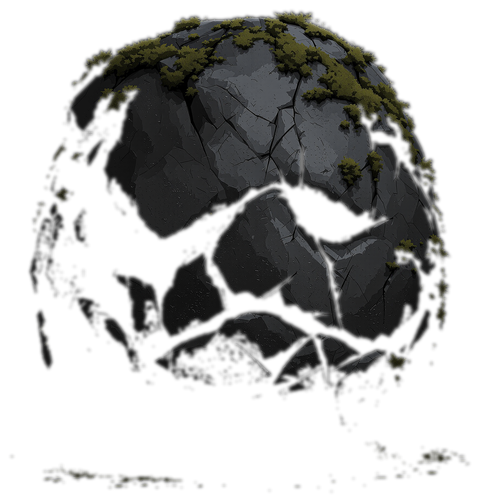
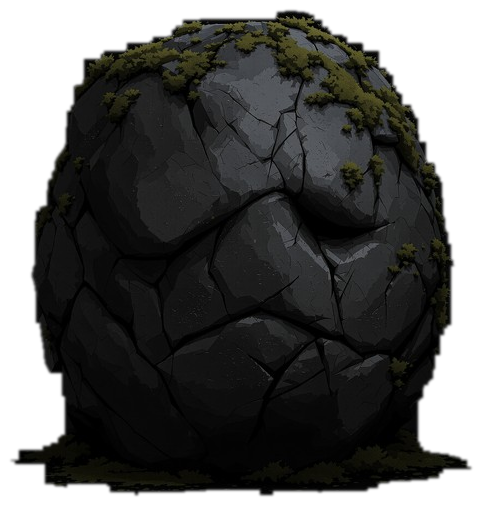
Troll rockface: fix cutout leak — solid silhouette, cracks as texture
The old RGB flood-fill (thresh 34) climbed from the near-black background
(lum ~8) up into the rock's dark facets (lum ~40), keying out ~a third of
the body so soil showed through the rock. Re-cut #4 from the opaque JPG with
a binary luma threshold + morphological close (dilate/erode) that seals the
crack gaps opening to the edge — the alpha is now the solid outer boulder
shape and the cracks read as dark painted-on texture, not see-through holes.

Claude-Session: https://claude.ai/code/session_01CgGUkw5aUKtUAGfWeZXo2s

diff --git a/dist/artifact.html b/dist/artifact.html
@@ -1484,8 +1484,8 @@
 <div id="ui"></div>
 <script>
 'use strict';
-window.__ASSET_VER = "9ujh7k";
-globalThis.__BUILD__ = "local 07-24 19:02";
+window.__ASSET_VER = "zmli4k";
+globalThis.__BUILD__ = "local 07-24 19:17";
 
 // ===================== src/config.js =====================
 const __m_config = (function () {

diff --git a/dist/index.html b/dist/index.html
@@ -1490,8 +1490,8 @@
 <div id="ui"></div>
 <script>
 'use strict';
-window.__ASSET_VER = "9ujh7k";
-globalThis.__BUILD__ = "local 07-24 19:02";
+window.__ASSET_VER = "zmli4k";
+globalThis.__BUILD__ = "local 07-24 19:17";
 
 // ===================== src/config.js =====================
 const __m_config = (function () {

diff --git a/scripts/recut_troll.py b/scripts/recut_troll.py
@@ -1,0 +1,83 @@
+#!/usr/bin/env python3
+# Re-cut the troll rockface from an already-generated opaque JPG. The rock is DARK on a
+# near-black bg, so the old RGB flood-fill (thresh 34) climbed from bg (lum ~8) up into
+# the rock's facets (lum ~40) and ate a third of the body. Fix: flood-fill a BINARY
+# mask (dark <= T vs lit) so the first lit facet is a hard wall; interior dark cracks that
+# aren't reachable from the border stay solid; then fill any residual interior holes.
+import sys
+from pathlib import Path
+from PIL import Image, ImageDraw, ImageFilter
+
+ROOT = Path(__file__).resolve().parents[1]
+
+def luma(im):
+    return im.convert("L")  # PIL L uses ITU-R 601-2 luma — good enough here
+
+def dilate(mask, it):
+    for _ in range(it):
+        mask = mask.filter(ImageFilter.MaxFilter(5))
+    return mask
+
+def erode(mask, it):
+    for _ in range(it):
+        mask = mask.filter(ImageFilter.MinFilter(5))
+    return mask
+
+def cutout(src, dest, T=13, pad=8, feather=1.2, close=9):
+    im = Image.open(src).convert("RGB")
+    w, h = im.size
+    L = luma(im)
+    lp = L.load()
+    # binary foreground: 255 = lit rock (> T), 0 = dark (bg / crack / shadow)
+    fg = Image.new("L", (w, h), 0)
+    fp = fg.load()
+    for y in range(h):
+        for x in range(w):
+            if lp[x, y] > T:
+                fp[x, y] = 255
+    # morphological CLOSE: dilate then erode by the same amount. This SEALS the crack
+    # gaps that open to the rock edge (so brown soil can't show through) WITHOUT growing
+    # the outer silhouette — a rock is a solid shape, its cracks are dark texture, not holes.
+    fg = erode(dilate(fg, close), close)
+    # "outside" = background reachable from the border through fg's 0-region. Everything
+    # else (the rock and any enclosed gaps the close missed) stays opaque.
+    work = fg.copy()
+    seeds = [(1, 1), (w - 2, 1), (1, h - 2), (w - 2, h - 2),
+             (w // 2, 1), (w // 2, h - 2), (1, h // 2), (w - 2, h // 2)]
+    SENT = 128
+    for s in seeds:
+        if work.load()[s[0], s[1]] == 0:
+            ImageDraw.floodfill(work, s, SENT, thresh=0)
+    alpha = Image.new("L", (w, h), 255)
+    ap = alpha.load(); wp = work.load()
+    for y in range(h):
+        for x in range(w):
+            if wp[x, y] == SENT:   # only the border-connected outside is transparent
+                ap[x, y] = 0
+    alpha = alpha.filter(ImageFilter.GaussianBlur(feather))
+    out = im.convert("RGBA")
+    out.putalpha(alpha)
+    bbox = out.getbbox()
+    if bbox:
+        bbox = (max(0, bbox[0] - pad), max(0, bbox[1] - pad),
+                min(w, bbox[2] + pad), min(h, bbox[3] + pad))
+        out = out.crop(bbox)
+    out.save(dest, "PNG")
+    # report interior transparency to catch leaks
+    ow, oh = out.size
+    op = out.load()
+    x0, x1, y0, y1 = int(ow * .2), int(ow * .8), int(oh * .2), int(oh * .8)
+    t = tot = 0
+    for y in range(y0, y1, 3):
+        for x in range(x0, x1, 3):
+            tot += 1
+            if op[x, y][3] < 40:
+                t += 1
+    print(f"{dest}: size={out.size} interior-transparent={t/tot:.3f}")
+
+if __name__ == "__main__":
+    n = sys.argv[1] if len(sys.argv) > 1 else "4"
+    T = int(sys.argv[2]) if len(sys.argv) > 2 else 13
+    src = ROOT / "assets" / "rock_options" / f"troll-r{n}.jpg"
+    dest = ROOT / "assets" / "rock_options" / f"troll-r{n}.png"
+    cutout(str(src), str(dest), T=T)
